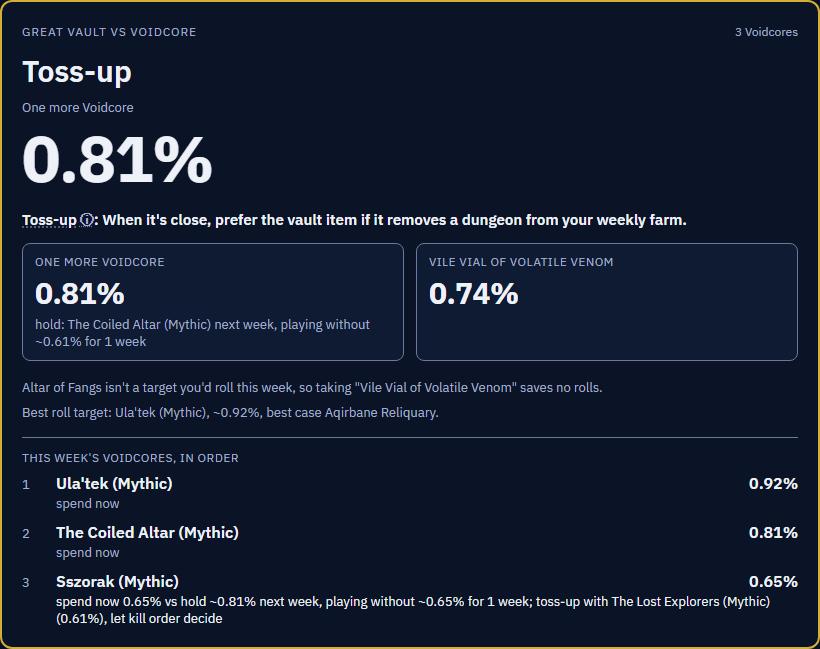
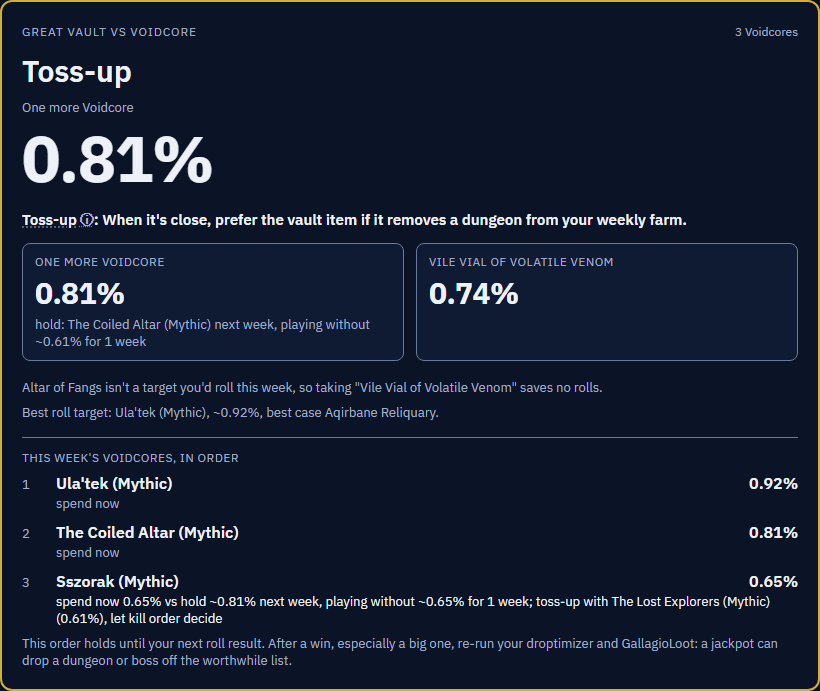
v2.11: roll plan states its Mythic+ assumption, re-run reminder under the order and in the footer

diff --git a/test/supply.test.ts b/test/supply.test.ts
@@ -6,6 +6,10 @@ import { compareVault } from '../src/core/vault'
 import {
   BELOW_THRESHOLD_TEXT,
   defaultEarnedPerWeek,
+  extraMplusAssumptionText,
+  mplusAssumptionText,
+  ROLL_ORDER_REMINDER,
+  runCountPhrase,
   holdAdvice,
   holdAdviceText,
   holdCostText,
@@ -213,10 +217,11 @@ describe('earning rate', () => {
     expect(defaultEarnedPerWeek(12)).toBe(2)
   })
 
-  it('the eight supply assumptions are disclosed, with no em dashes; one is the plain holding-delays-the-upgrade line, with no finance terms', () => {
-    expect(VOIDCORE_ASSUMPTIONS).toHaveLength(8)
+  it('the nine supply assumptions are disclosed, with no em dashes; one is the plain holding-delays-the-upgrade line, with no finance terms', () => {
+    expect(VOIDCORE_ASSUMPTIONS).toHaveLength(9)
     expect(VOIDCORE_ASSUMPTIONS.join(' ')).not.toMatch(/—/)
     expect(VOIDCORE_ASSUMPTIONS).toContain(HOLD_DELAY_LINE)
+    expect(VOIDCORE_ASSUMPTIONS.filter((a) => /re-run your droptimizer and GallagioLoot/.test(a))).toHaveLength(1)
     expect(VOIDCORE_ASSUMPTIONS.join(' ')).not.toMatch(/time value|npv|discount/i)
   })
 })
@@ -324,5 +329,54 @@ describe('compareVault: the saved-rolls credit still requires an allocated targe
     expect(d.savedRolls).toBeGreaterThan(0)
     expect(d.voidcoreUse).toMatchObject({ use: 'spend', roll: 2, target: { encounterName: 'B' } })
     expect(d.vaultItemGainPct).toBeCloseTo(0.3 + d.savedRolls * 0.5, 10)
+  })
+})
+
+describe('the Mythic+ assumption behind a plan', () => {
+  const run = (name: string, level = 10) => ({ kind: 'mplus' as const, encounterName: name, keyLevel: level })
+  const raid = { kind: 'raid' as const, encounterName: 'Sszorak', keyLevel: undefined }
+
+  it('runCountPhrase: once, twice, then N times', () => {
+    expect(runCountPhrase(1)).toBe('once')
+    expect(runCountPhrase(2)).toBe('twice')
+    expect(runCountPhrase(3)).toBe('3 times')
+    expect(runCountPhrase(5)).toBe('5 times')
+  })
+
+  it('0 runs: says nothing about Mythic+ (raid-only plans and empty plans)', () => {
+    expect(mplusAssumptionText([])).toBe('')
+    expect(mplusAssumptionText([raid, raid])).toBe('')
+  })
+
+  it('1, 2 and 3 runs of one dungeon, counting the rolls the plan assigns to it', () => {
+    expect(mplusAssumptionText([run('Murder Row')])).toBe('Plan assumes you run Murder Row at +10 once this week.')
+    expect(mplusAssumptionText([raid, run('Murder Row'), run('Murder Row')])).toBe('Plan assumes you run Murder Row at +10 twice this week.')
+    expect(mplusAssumptionText([run('Murder Row'), run('Murder Row'), run('Murder Row')])).toBe('Plan assumes you run Murder Row at +10 3 times this week.')
+  })
+
+  it('lists several dungeons, each with its own count and key level', () => {
+    expect(mplusAssumptionText([run('Murder Row'), run('Altar of Fangs', 12), run('Murder Row')])).toBe('Plan assumes you run Murder Row at +10 twice and Altar of Fangs at +12 once this week.')
+    expect(mplusAssumptionText([run('A'), run('B'), run('B'), run('C')])).toBe('Plan assumes you run A at +10 once, B at +10 twice and C at +10 once this week.')
+  })
+
+  it('no em dashes, and a dungeon without a key level is named plainly', () => {
+    expect(mplusAssumptionText([{ kind: 'mplus', encounterName: 'Murder Row' }])).toBe('Plan assumes you run Murder Row once this week.')
+    expect(mplusAssumptionText([run('A'), run('B')]) + ROLL_ORDER_REMINDER).not.toContain('\u2014')
+  })
+
+  it('the extra Voidcore: a spent one is another run this week, a held one is a run next week, a raid boss says nothing', () => {
+    const planOf = (evals: BossEval[], toSpend: number) => planVoidcores(evals, { onHand: toSpend, toSpend, earnedPerWeek: 1 })
+    const dungeon = boss(9, 'Murder Row', 0.9, { kind: 'mplus' })
+    // Two rolls both go to the dungeon (repeatable), and so does the extra one: 3 runs.
+    expect(extraMplusAssumptionText(planOf([dungeon], 2))).toBe('Plan assumes you run Murder Row at +10 3 times this week.')
+    expect(extraMplusAssumptionText(planOf([boss(1, 'A', 0.9), boss(2, 'B', 0.5)], 1))).toBe('')
+    const target = planOf([dungeon], 1).rolls[0]
+    expect(extraMplusAssumptionText({ rolls: [], extra: { use: 'hold', target, valuePct: 0.9, spendPct: 0 } })).toBe('Plan assumes you run Murder Row at +10 once next week.')
+  })
+
+  it('ROLL_ORDER_REMINDER is the operator wording', () => {
+    expect(ROLL_ORDER_REMINDER).toBe(
+      'This order holds until your next roll result. After a win, especially a big one, re-run your droptimizer and GallagioLoot: a jackpot can drop a dungeon or boss off the worthwhile list.'
+    )
   })
 })

diff --git a/web/test/card.planDisclosure.test.tsx b/web/test/card.planDisclosure.test.tsx
@@ -1,0 +1,87 @@
+import { describe, expect, it } from 'vitest'
+import { createElement } from 'react'
+import { renderToStaticMarkup } from 'react-dom/server'
+import { recommend } from '@engine/core/rank'
+import { planVoidcores, ROLL_ORDER_REMINDER } from '@engine/core/supply'
+import type { BossEval, PoolEntry, Settings } from '@engine/core/types'
+import { RecommendationCard } from '../src/components/RecommendationCard'
+import { buildCardData } from '../src/lib/cardData'
+
+// Synthetic ranking: two raid bosses and one Mythic+ dungeon that ranks between them, so a plan of 3
+// Voidcores reaches the dungeon and a plan of 1 does not.
+const BASELINE = 100000
+const settings: Settings = { thresholdPct: 0.2, voidcoresToSpend: 1, includeOffSpec: false, lootSpecId: 62 }
+
+function target(id: number, name: string, evPct: number, kind: 'raid' | 'mplus'): BossEval {
+  const ev = (evPct / 100) * BASELINE
+  const entry: PoolEntry = { key: `item:${id}`, itemIds: [id], name: `${name} item`, value: ev, rawDelta: ev, pct: evPct, kind: 'item', specSpecific: false, ownership: 'none', isDud: false, knockedOut: false }
+  return {
+    encounterId: id,
+    encounterName: name,
+    instanceId: 1320,
+    targetKey: `${kind}:${id}`,
+    kind,
+    difficultyLabel: kind === 'mplus' ? '+10 (Myth)' : 'Mythic',
+    keyLevel: kind === 'mplus' ? 10 : undefined,
+    baseline: BASELINE,
+    pool: [entry],
+    remaining: 1,
+    rollsSpent: 0,
+    rollsAttributed: 0,
+    rollsUnattributed: 0,
+    ev,
+    evPct,
+    bestCase: entry,
+    deployable: true,
+    notes: [],
+  }
+}
+
+const evals = [target(1, "Ula'tek", 0.9, 'raid'), target(2, 'Murder Row', 0.7, 'mplus'), target(3, 'Sszorak', 0.3, 'raid')]
+
+function cardFor(toSpend: number, list = evals) {
+  const plan = planVoidcores(list, { onHand: toSpend, toSpend, earnedPerWeek: 1 })
+  const recommendation = recommend(list, { ...settings, voidcoresToSpend: Math.max(1, toSpend) }, [])
+  const card = buildCardData({ recommendation, bossEvals: list, vaultDecision: null, plan, thresholdPct: 0.2 })
+  const text = renderToStaticMarkup(createElement(RecommendationCard, { card })).replace(/<[^>]+>/g, ' ').replace(/\s+/g, ' ')
+  return { card, text }
+}
+
+describe('the roll order states its Mythic+ assumption and the re-run reminder', () => {
+  it('a dungeon inside the to-spend count is named with its run count', () => {
+    const { card, text } = cardFor(2)
+    expect(card.rolls?.map((r) => r.name)).toEqual(["Ula'tek (Mythic)", 'Murder Row at +10'])
+    expect(card.rollAssumption).toBe('Plan assumes you run Murder Row at +10 once this week.')
+    expect(text).toContain('Plan assumes you run Murder Row at +10 once this week.')
+  })
+
+  it('the count is the number of rolls the plan assigns to the dungeon', () => {
+    const { card } = cardFor(2, [target(2, 'Murder Row', 0.9, 'mplus'), target(1, "Ula'tek", 0.3, 'raid')])
+    expect(card.rollAssumption).toBe('Plan assumes you run Murder Row at +10 twice this week.')
+  })
+
+  it('a dungeon outside the to-spend count, or no dungeon at all, says nothing about Mythic+', () => {
+    const one = cardFor(1)
+    expect(one.card.rollAssumption).toBeUndefined()
+    expect(one.text).not.toContain('Plan assumes')
+    const raidOnly = cardFor(2, [evals[0], evals[2]])
+    expect(raidOnly.card.rollAssumption).toBeUndefined()
+    expect(raidOnly.text).not.toMatch(/Mythic\+|Plan assumes|at \+10/)
+  })
+
+  it('the re-run reminder shows with at least one roll (raid or Mythic+), verbatim and without em dashes', () => {
+    for (const toSpend of [1, 3]) {
+      const { card, text } = cardFor(toSpend)
+      expect(card.rollReminder).toBe(ROLL_ORDER_REMINDER)
+      expect(text).toContain('This order holds until your next roll result. After a win, especially a big one, re-run your droptimizer and GallagioLoot: a jackpot can drop a dungeon or boss off the worthwhile list.')
+      expect(text).not.toContain('—')
+    }
+  })
+
+  it('no reminder when there is nothing to roll', () => {
+    const { card, text } = cardFor(0)
+    expect(card.rolls).toEqual([])
+    expect(card.rollReminder).toBeUndefined()
+    expect(text).not.toContain('This order holds')
+  })
+})

diff --git a/src/core/supply.ts b/src/core/supply.ts
@@ -18,6 +18,7 @@ export const VOIDCORE_ASSUMPTIONS: string[] = [
   'Within a week, rolls go down the ranking (one per boss per difficulty; Mythic+ keys can repeat), so later rolls in the same week are worth less.',
   "\"Hold\" compares against next week's best target left after next week's earned Voidcores take the top targets first. It assumes the same bosses, the same sim and no knockout from this week's rolls; gear changes, knockouts and new sims will move it, so treat it as an estimate.",
   'Holding delays the upgrade: every week you wait, you play without it, and a roll never guarantees the item you are holding for.',
+  'The roll order is only good until your next roll result. After a win, especially a big one, re-run your droptimizer and GallagioLoot: a jackpot can drop a dungeon or boss off the worthwhile list.',
   'Earning rate is the Voidcores earned per week setting: one from choosing the Voidcore in a 3-door Great Vault, one more per week from season week 8.',
   'Voidcores left at season end are worth nothing; with a large stockpile and few weeks left, spending on lower targets beats holding.',
   'These are expected values, not outcomes. Spreading rolls across weeks does not change the average for a given target; it changes which targets you get to roll. Actual loot varies a lot between players with the same plan.',
@@ -161,6 +162,52 @@ export function holdAdviceText(roll: Pick<PlannedRoll, 'evPct' | 'holdPct' | 'ad
   if (roll.advice === 'spend') return 'spend now'
   const cost = holdCostText(roll.evPct, weeks)
   return `spend now ${roll.evPct.toFixed(2)}% vs hold ~${roll.holdPct.toFixed(2)}% ${holdWhenText(weeks)}${cost ? `, ${cost}` : ''}`
+}
+
+/** Shown under the card's roll order whenever the plan has at least one roll (raid and Mythic+ alike). */
+export const ROLL_ORDER_REMINDER =
+  'This order holds until your next roll result. After a win, especially a big one, re-run your droptimizer and GallagioLoot: a jackpot can drop a dungeon or boss off the worthwhile list.'
+
+/**
+ * "once", "twice", "3 times".
+ *
+ * Body first generated by qwen2.5-coder:7b (Ollama) from the exact signature and one example; the
+ * logic was right, edited only for the file's style (fenced block, semicolons, double quotes).
+ */
+export function runCountPhrase(n: number): string {
+  if (n === 1) return 'once'
+  if (n === 2) return 'twice'
+  return `${n} times`
+}
+
+/**
+ * The Mythic+ assumption behind a plan: "Plan assumes you run Murder Row at +10 twice this week."
+ * One clause per dungeon (at its key level), counting the rolls the plan assigns to it; several
+ * dungeons join with "and". Empty when the plan uses no Mythic+ dungeon, so nothing is said about M+.
+ */
+export function mplusAssumptionText(targets: Pick<RollTarget, 'kind' | 'encounterName' | 'keyLevel'>[], when = 'this week'): string {
+  const runs = new Map<string, { name: string; count: number }>()
+  for (const t of targets) {
+    if (t.kind !== 'mplus') continue
+    const name = t.keyLevel !== undefined ? `${t.encounterName} at +${t.keyLevel}` : t.encounterName
+    const seen = runs.get(name)
+    if (seen) seen.count += 1
+    else runs.set(name, { name, count: 1 })
+  }
+  if (runs.size === 0) return ''
+  const clauses = [...runs.values()].map((r) => `${r.name} ${runCountPhrase(r.count)}`)
+  const list = clauses.length > 1 ? `${clauses.slice(0, -1).join(', ')} and ${clauses[clauses.length - 1]}` : clauses[0]
+  return `Plan assumes you run ${list} ${when}.`
+}
+
+/**
+ * The Mythic+ assumption for the "One more Voidcore" line: a spent extra Voidcore is one more run this
+ * week on top of the plan's rolls; a held one is a run next week. Empty when its target is a raid boss.
+ */
+export function extraMplusAssumptionText(plan: Pick<VoidcorePlan, 'rolls' | 'extra'>): string {
+  const { extra } = plan
+  if (!extra || extra.target.kind !== 'mplus') return ''
+  return extra.use === 'spend' ? mplusAssumptionText([...plan.rolls, extra.target]) : mplusAssumptionText([extra.target], 'next week')
 }
 
 export const BELOW_THRESHOLD_TEXT = 'below threshold: hold it or take the tokens'

diff --git a/web/src/lib/cardData.ts b/web/src/lib/cardData.ts
@@ -1,7 +1,7 @@
 import type { BossEval, PoolEntry, Recommendation, VaultDecision } from '@engine/core/types'
 import type { TargetKind } from '@engine/types'
 import { evalKey } from '@engine/core/targets'
-import { holdAdviceText, holdCostText, holdWhenText, noTargetText, stockpileWarningText, type ExtraVoidcore, type VoidcorePlan } from '@engine/core/supply'
+import { holdAdviceText, holdCostText, holdWhenText, mplusAssumptionText, noTargetText, ROLL_ORDER_REMINDER, stockpileWarningText, type ExtraVoidcore, type VoidcorePlan } from '@engine/core/supply'
 
 /** The fields of a BossEval/Allocation that name a roll target. */
 export type TargetLike = { encounterName: string; kind?: TargetKind; difficultyLabel?: string; keyLevel?: number; rolls?: number }
@@ -105,6 +105,10 @@ export type CardData = {
   rolls?: CardRoll[]
   /** Notes under the roll list: nothing to spend, Voidcores without a target, the season-end stockpile warning. */
   rollNotes?: string[]
+  /** "Plan assumes you run Murder Row at +10 twice this week." Set only when the roll order uses a Mythic+ dungeon. */
+  rollAssumption?: string
+  /** The re-run reminder under the roll order; set whenever the plan has at least one roll. */
+  rollReminder?: string
   /**
    * Per-boss pct for each side of a toss-up headline ("Roll X or Y"), derived by matching
    * recommendation.tossUp.bosses against bossEvals.evPct -- no new engine call, just a lookup
@@ -310,7 +314,7 @@ export function buildCardData(params: {
  * now / hold comparison, plus the notes under it. With several Voidcores, a kill-order toss-up at
  * the last roll (recommendation.tossUp) goes on that roll's row rather than in the headline.
  */
-function buildRollList(plan: VoidcorePlan, recommendation: Recommendation, bossEvals: BossEval[], thresholdPct: number): Pick<CardData, 'rolls' | 'rollNotes'> {
+function buildRollList(plan: VoidcorePlan, recommendation: Recommendation, bossEvals: BossEval[], thresholdPct: number): Pick<CardData, 'rolls' | 'rollNotes' | 'rollAssumption' | 'rollReminder'> {
   const rolls: CardRoll[] = plan.rolls.map((r) => ({
     roll: r.roll,
     name: targetDisplayName(r),
@@ -330,5 +334,5 @@ function buildRollList(plan: VoidcorePlan, recommendation: Recommendation, bossE
   if (plan.toSpend === 0) rollNotes.push('No Voidcores to spend this week. Set Voidcores on hand in Run settings.')
   if (plan.noTargetCount > 0) rollNotes.push(noTargetText(plan.noTargetCount))
   if (plan.stockpile?.warn) rollNotes.push(stockpileWarningText(plan.stockpile, thresholdPct))
-  return { rolls, rollNotes }
+  return { rolls, rollNotes, rollAssumption: mplusAssumptionText(plan.rolls) || undefined, rollReminder: rolls.length > 0 ? ROLL_ORDER_REMINDER : undefined }
 }

diff --git a/web/test/app.voidcores.test.tsx b/web/test/app.voidcores.test.tsx
@@ -90,7 +90,7 @@ const rows = () =>
   [...container.querySelectorAll('.rec-card .roll-list__row')].map((r) =>
     [r.querySelector('.roll-list__n'), r.querySelector('.roll-list__name'), r.querySelector('.roll-list__ev'), r.querySelector('.roll-list__advice')].map((e) => e?.textContent ?? '')
   )
-const rollNotes = () => [...container.querySelectorAll('.rec-card .roll-list__note')].map((n) => n.textContent)
+const rollNotes = () => [...container.querySelectorAll('.rec-card .roll-list__note:not(.roll-list__reminder):not(.roll-list__assumption)')].map((n) => n.textContent)
 
 describe('Run settings: Voidcore supply inputs', () => {
   it('has no "Rolls available" setting', async () => {
@@ -214,12 +214,31 @@ describe('the recommendation card: this week\'s Voidcores, in order', () => {
   })
 })
 
+describe('the roll order under the card', () => {
+  const reminder = () => container.querySelector('.rec-card .roll-list__reminder')?.textContent
+  const assumption = () => container.querySelector('.rec-card .roll-list__assumption')?.textContent
+
+  it('shows the re-run reminder with at least one roll, says nothing about Mythic+ for a raid-only plan, and drops the reminder with no roll', async () => {
+    await loadRaid()
+    await price()
+    expect(reminder()).toBeUndefined()
+    await set('#voidcores-on-hand', '1')
+    await price()
+    expect(rows()).toHaveLength(1)
+    expect(reminder()).toBe('This order holds until your next roll result. After a win, especially a big one, re-run your droptimizer and GallagioLoot: a jackpot can drop a dungeon or boss off the worthwhile list.')
+    expect(assumption()).toBeUndefined()
+    expect(container.querySelector('.rec-card')?.textContent).not.toContain('Plan assumes')
+  })
+})
+
 describe('footer assumptions', () => {
   it('lists the Voidcore supply assumptions', async () => {
     await loadRaid()
     const items = [...container.querySelectorAll('.app-footer__assumptions li')].map((li) => li.textContent)
     for (const a of VOIDCORE_ASSUMPTIONS) expect(items).toContain(a)
     expect(items.join(' ')).toContain('Voidcores can be held until the end of the season')
+    expect(items).toContain('The roll order is only good until your next roll result. After a win, especially a big one, re-run your droptimizer and GallagioLoot: a jackpot can drop a dungeon or boss off the worthwhile list.')
+    expect(items.join(' ')).not.toContain('\u2014')
     expect(items).toContain('Holding delays the upgrade: every week you wait, you play without it, and a roll never guarantees the item you are holding for.')
   })
 })

diff --git a/web/src/App.tsx b/web/src/App.tsx
@@ -4,7 +4,7 @@ import { curioEntryKeys, dropCurioEntries } from '@engine/core/curio'
 import { addEntry, characterKey, createStateFor, deserialize, removeEntry, serialize, setRollsSpent, storageKeyFor } from '@engine/core/knockout'
 import { buildBossPools } from '@engine/core/pool'
 import { recommend } from '@engine/core/rank'
-import { defaultEarnedPerWeek, planVoidcores, type VoidcoreSupply } from '@engine/core/supply'
+import { defaultEarnedPerWeek, extraMplusAssumptionText, planVoidcores, type VoidcoreSupply } from '@engine/core/supply'
 import { compareVault, vaultItemFromTopGear } from '@engine/core/vault'
 import { checkCandidate, checkReportSet, DEFAULT_DRIFT_LIMITS, type DriftLimits } from '@engine/core/reportSet'
 import { difficultyLabel, keyLevelOf, knockoutDifficulty, targetKey, targetKindOf } from '@engine/core/targets'
@@ -556,6 +556,7 @@ export default function App() {
               {plan && (
                 <div className="reports-summary__next" aria-live="polite">
                   One more Voidcore: <span className="num reports-summary__ev">{extraVoidcoreText(plan.extra)}</span>
+                  {extraMplusAssumptionText(plan) && <div className="reports-summary__assumption">{extraMplusAssumptionText(plan)}</div>}
                 </div>
               )}
             </div>

diff --git a/web/test/app.reportsPanel.test.tsx b/web/test/app.reportsPanel.test.tsx
@@ -246,7 +246,8 @@ describe('Reports panel: Voidcores on hand and the next Voidcore', () => {
     await addReport(RAID_URL)
     await addReport(MPLUS_URL)
     await setOnHand(2)
-    expect(nextText()).toBe('One more Voidcore: ~2.00% (roll 3: Altar of Fangs at +10)')
+    expect(nextText()).toContain('One more Voidcore: ~2.00% (roll 3: Altar of Fangs at +10)')
+    expect(container.querySelector('.reports-summary__assumption')?.textContent).toBe('Plan assumes you run Altar of Fangs at +10 3 times this week.')
   })
 
   it('is hidden while the report set has an error (pricing is paused)', async () => {

diff --git a/web/src/components/RecommendationCard.tsx b/web/src/components/RecommendationCard.tsx
@@ -122,6 +122,8 @@ export function RecommendationCard({ card, onPrimaryAction, stale }: { card: Car
               ))}
             </ol>
           )}
+          {card.rollAssumption && <div className="rec-card__note roll-list__note roll-list__assumption">{card.rollAssumption}</div>}
+          {card.rollReminder && <div className="rec-card__note roll-list__note roll-list__reminder">{card.rollReminder}</div>}
           {card.rollNotes?.map((n) => (
             <div key={n} className="rec-card__note roll-list__note">
               {n}

diff --git a/web/src/theme.css b/web/src/theme.css
@@ -1888,6 +1888,11 @@ select:disabled {
   overflow-wrap: anywhere;
 }
 
+.reports-summary__assumption {
+  color: var(--text-muted);
+  font-size: var(--text-meta);
+}
+
 .reports-summary__ev {
   color: var(--text);
   font-weight: 600;

diff --git a/CLAUDE.md b/CLAUDE.md
@@ -42,4 +42,5 @@ Hard rules for the `web/` UI (Cloudflare Worker static site, see `web/CLAUDE.md`
 - **Equipped gear is auto-Owned only when it isn't a sim upgrade** (v2.06, corrected v2.07): Raidbots reports carry the sim profile's equipped gear (`rawFormData.droptimizer.equipped`); `NormalizedReport.equippedItemIds` holds its item ids (`src/normalize/equipped.ts`; QE Live's payload has none). `buildBossPools` marks a pool entry whose itemId is equipped `PoolEntry.equipped`, and treats it as Owned (a value-0 dud, `autoOwned`) unless the knockout state has an entry of its own **or the sim shows an upgrade** (best delta incl. catalyst credit > 0; the drop copy is then a higher item level than the worn one). Upgrades keep their value, default to None and set `equippedUpgrade`; the web UI labels them "Equipped (lower ilvl)" and offers None / Owned / Rolled, while auto-Owned rows say "Equipped" and offer Owned / Rolled. The sim delta is the source of truth (no ilvl comparison). The default is never stored. Matches by itemId alone (no ring/trinket unique-equip reasoning).
 - **Per-report drops and the Reports panel (v2.08)**: each report shows as one compact block (`web/src/components/ReportBlock.tsx`): heading + Remove, a drop line (`Drops Myth 6/6 (334) · The Coiled Altar, Ula'tek Myth 9/6 (344)`, from `summarizeDrops`/`formatDropLine` in `src/core/drops.ts`, read off the report's own rows and item labels, never hardcoded per boss), then items / bosses / baseline / sim date (`NormalizedReport.simmedAt` = Raidbots `data.json` `Last-Modified`, QE Live `timeCreated`). Warnings collapse under an "N notes" toggle, open by default only for an error. A once-per-panel strip shows "Voidcores on hand" (the Voidcores-held setting) and, since v2.09, "One more Voidcore: ~X%" (`planVoidcores(...).extra` in `src/core/supply.ts`). The 344 rows carry only `overrides.itemLevel: "Myth 9"` (no `upgrade` object); `parseTrackInfo` treats that as a step past max ("Myth 9/6"), never a max-upgrade warning.
 - **Voidcore supply (v2.09, operator rulings 2026-09-25; supersede "Rolls available 1/2")**: earning is at most 1 Voidcore a week from the Great Vault plus 1 more a week from season week 8 (another source); Voidcores are held until season end (unspent = lost); there is **no weekly spend cap** (limits: Voidcores held + targeting rules). `src/core/supply.ts` `planVoidcores` orders the Voidcores to spend this week (Run settings: on hand, to spend (default = on hand), earned per week (default 1, 2 once next week is season week 8, i.e. from season week 7), optional season week / weeks left), flags below-threshold rolls, compares each with its hold value next week and shows what waiting costs ("playing without ~X% for 1 week", `holdCostText`; v2.10 operator ruling, no NPV or discounting) (after next week's earned + carried Voidcores take the top targets), warns on a season-end stockpile, and values one more Voidcore (the vault's Voidcore side in `compareVault`). `Settings.voidcoresToSpend` replaced `rollsAvailable`; the web migrates a stored `rollsAvailable: 2` to 2 earned per week. The eight supply assumptions (`VOIDCORE_ASSUMPTIONS`, v2.10 added the plain "Holding delays the upgrade" line) are listed in the footer. The card's "Next best" line says "the pick holds" only when `recommendation.tossUp` is null (one toss-up determination for the boss-vs-boss comparison).
+- **Plan disclosure (v2.11, operator rulings 2026-09-25)**: no keys-per-week input. Whenever the roll plan uses a Mythic+ dungeon, the card (under the roll order) and the "One more Voidcore" strip state the assumption, e.g. "Plan assumes you run Murder Row at +10 twice this week." (`mplusAssumptionText`, `extraMplusAssumptionText`, `runCountPhrase` in `src/core/supply.ts`; count = rolls the plan assigns to that dungeon); a plan with no dungeon says nothing about Mythic+. The stockpile check treats a deployable dungeon as unlimited rolls, so its warning never counts M+ runs and carries no M+ assumption. Under the roll order (any plan with at least one roll, raid or M+) the card shows `ROLL_ORDER_REMINDER` ("This order holds until your next roll result. After a win ... re-run your droptimizer and GallagioLoot ..."); the footer has the same idea as the ninth supply assumption.
 - CORS: `https://gallagioloot.icehunter.net` (configurable via `wrangler.toml [vars] ALLOWED_ORIGIN`) plus `http://localhost:*` for dev.

diff --git a/DEPLOY.md b/DEPLOY.md
@@ -39,7 +39,7 @@ npx wrangler deploy        # uses web/wrangler.toml, uploads dist/
 
 ## Smoke test
 
-**Run `npm run check:live` (in `web/`) after every deploy** — it drives the live site at 1280px and 390px with a real raid droptimizer + Mythic+ droptimizer + Top Gear report and asserts (PASS/FAIL per check, non-zero exit on any failure) the compact report blocks (drop line with the Myth 9/6 (344) exception on the Mythic raid, sim dates, the closed "N notes" toggle, Voidcores on hand mirrored with Run settings, the "One more Voidcore" line), the M+ section, target EVs, Ula'tek's 4-item pool (4 / 4, no Curio row, the curio note), the none-on-hand kill-order card (Ula'tek or The Coiled Altar, One more Voidcore 0.92% vs the Vial 0.74%) and its no-saved-rolls explanation, the v2.09 Voidcore supply card at 3 on hand (ordered list; earned 1: "spend now 0.65% vs hold ~0.81% next week, playing without ~0.65% for 1 week"; earned 2: "spend now"; the strip's hold values with their clause), one toss-up determination at 1 roll (no "the pick holds" beside "Toss-up"), the footer's supply assumptions and the "Holding delays the upgrade" line, the spec-specific pill, and layout (screenshots/JSON land gitignored in `web/design/live-single-page-*`).
+**Run `npm run check:live` (in `web/`) after every deploy** — it drives the live site at 1280px and 390px with a real raid droptimizer + Mythic+ droptimizer + Top Gear report and asserts (PASS/FAIL per check, non-zero exit on any failure) the compact report blocks (drop line with the Myth 9/6 (344) exception on the Mythic raid, sim dates, the closed "N notes" toggle, Voidcores on hand mirrored with Run settings, the "One more Voidcore" line), the M+ section, target EVs, Ula'tek's 4-item pool (4 / 4, no Curio row, the curio note), the none-on-hand kill-order card (Ula'tek or The Coiled Altar, One more Voidcore 0.92% vs the Vial 0.74%) and its no-saved-rolls explanation, the v2.09 Voidcore supply card at 3 on hand (ordered list; earned 1: "spend now 0.65% vs hold ~0.81% next week, playing without ~0.65% for 1 week"; earned 2: "spend now"; the strip's hold values with their clause), one toss-up determination at 1 roll (no "the pick holds" beside "Toss-up"), the footer's nine supply assumptions (incl. the re-run-after-a-win line), the v2.11 plan disclosure (3 on hand: reminder, no Mythic+ line; 6 on hand: "Plan assumes you run Altar of Fangs at +10 once this week.") and the "Holding delays the upgrade" line, the spec-specific pill, and layout (screenshots/JSON land gitignored in `web/design/live-single-page-*`).
 
 ```bash
 cd web
